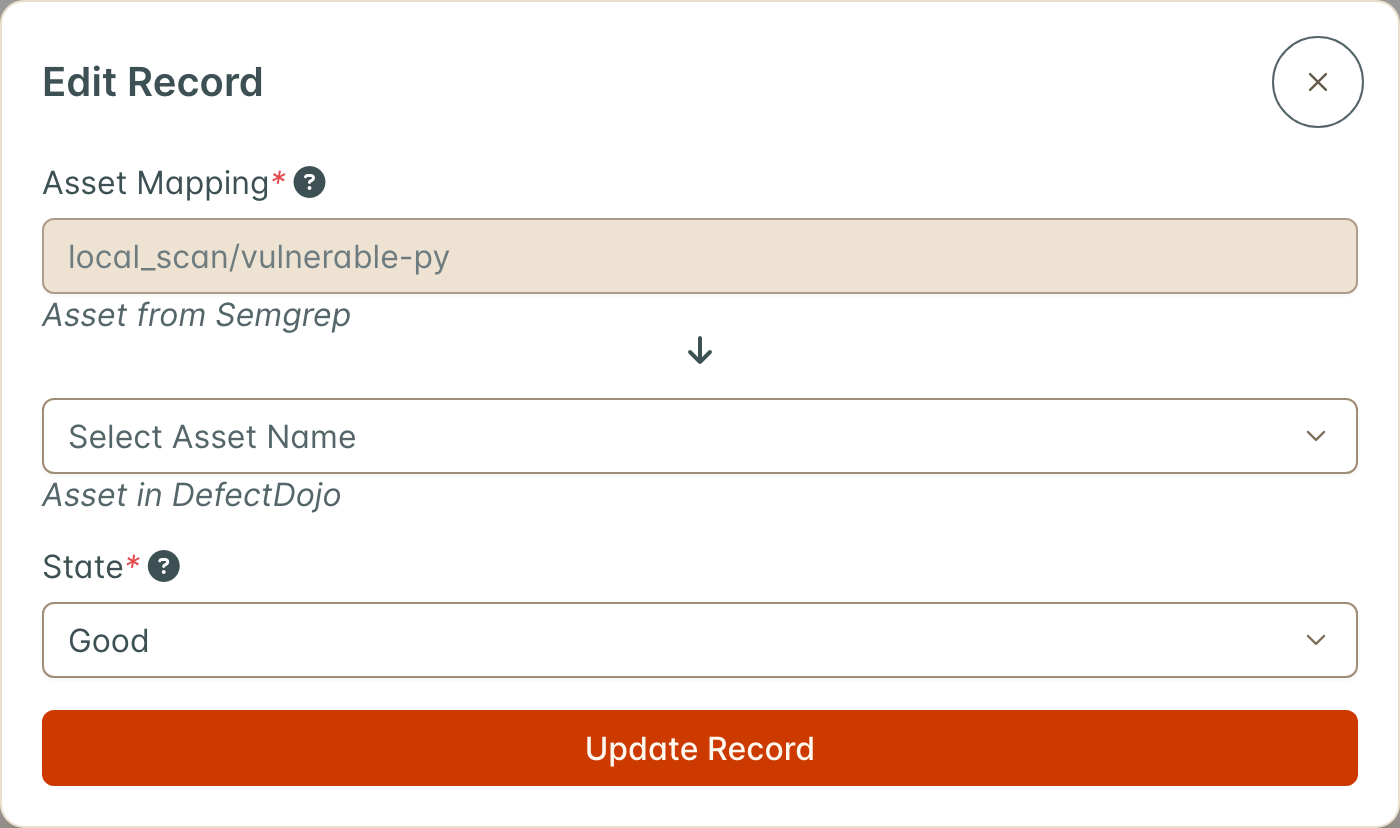
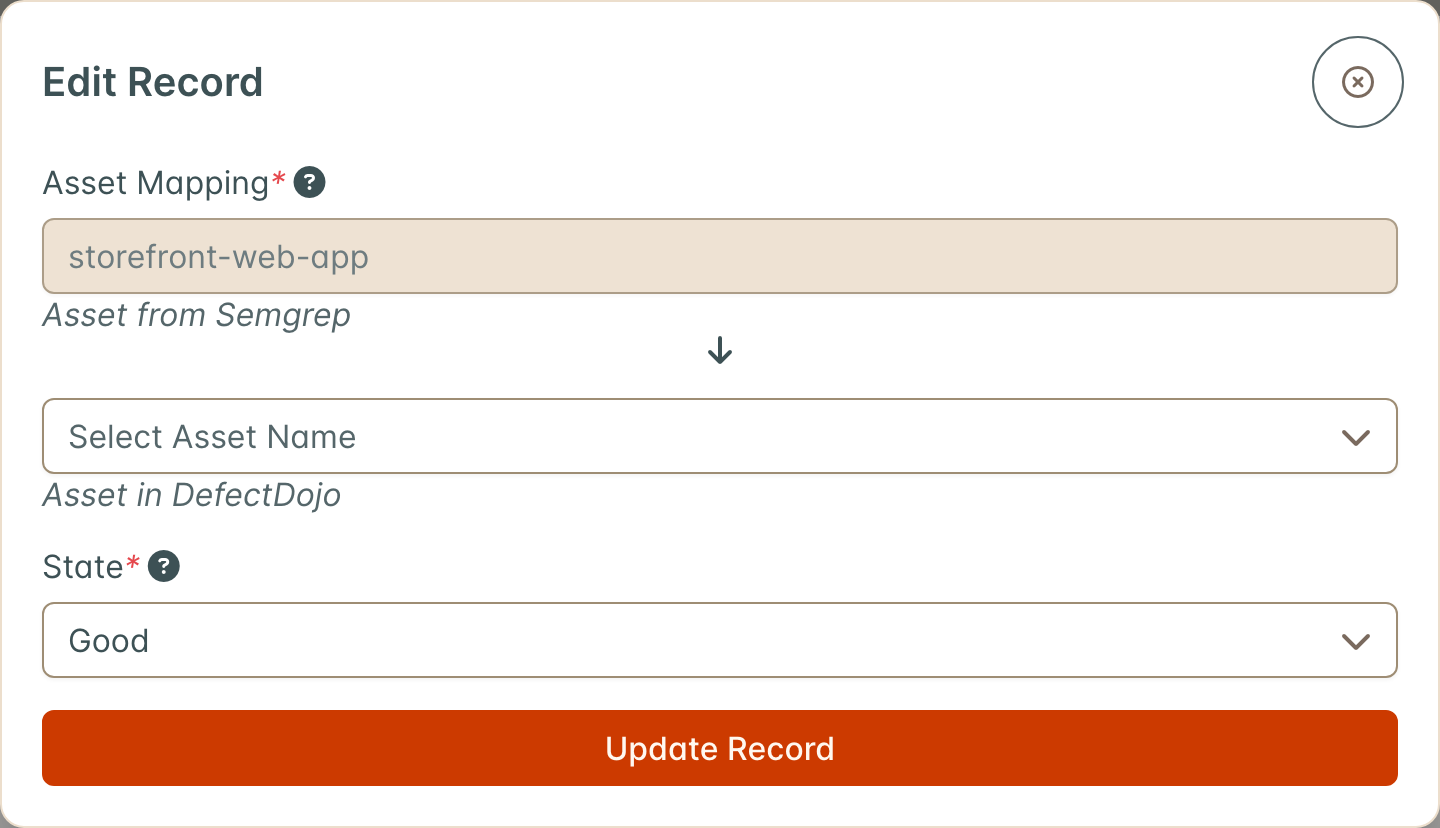
docs: fix the API sample code, do_not_reactivate, Location findings and records screenshots (#16639)
- API v2 Sample Code: query /api/v2/findings/ (readable with any token) instead of
  /api/v2/users/, print the results instead of the Response internals, show the
  paginated response shape and a filtered query, with placeholder host and token.
- do_not_reactivate: a reimport keeps a closed finding closed; new and open
  findings are processed as usual.
- Location page: its table lists open findings only; say how to reach every
  finding on a Location through the Total Findings count.
- Location Map: link it from the Locations overview, and state what a Reader can
  and cannot change.
- Recapture the upstream records screenshots with the row menu.

diff --git a/docs/content/automation/api/api-v2-docs.md b/docs/content/automation/api/api-v2-docs.md
@@ -116,81 +116,75 @@ Plan the change before making it: pick a window, ask token owners to rotate firs
 
 ## Sample Code
 
-Here are some simple python examples and their results produced against
-the `/users` endpoint:
+Here are two simple Python examples against the `/findings` endpoint. Any user with an API token can run them: the response holds only the findings that user has permission to view.
+
+The first lists findings and prints each one's id and title:
 
 {{< highlight python >}}
 import requests
 
-url = 'http://127.0.0.1:8000/api/v2/users'
-headers = {'content-type': 'application/json',
-            'Authorization': 'Token c8572a5adf107a693aa6c72584da31f4d1f1dcff'}
-r = requests.get(url, headers=headers, verify=True) # set verify to False if ssl cert is self-signed
+url = 'https://defectdojo.example.com/api/v2/findings/'
+headers = {
+    'content-type': 'application/json',
+    'Authorization': 'Token <Your API Token>',
+}
+r = requests.get(url, headers=headers, verify=True)  # set verify to False if the SSL certificate is self-signed
+r.raise_for_status()
 
-for key, value in r.__dict__.items():
-  print(f"'{key}': '{value}'")
-  print('------------------')
+for finding in r.json()['results']:
+    print(finding['id'], finding['title'])
 {{< /highlight >}}
 
-This code will return the list of all the users defined in DefectDojo.
-The json object result looks like:
+The output is one line per finding:
+
+{{< highlight text >}}
+101 Example SQL Injection
+102 Example Cross-Site Scripting
+{{< /highlight >}}
+
+The second filters the list to active findings of High severity, using query parameters. Severity values are case-sensitive: use `Critical`, `High`, `Medium`, `Low` or `Info`.
+
+{{< highlight python >}}
+import requests
+
+url = 'https://defectdojo.example.com/api/v2/findings/'
+headers = {
+    'content-type': 'application/json',
+    'Authorization': 'Token <Your API Token>',
+}
+params = {'severity': 'High', 'active': 'true'}
+r = requests.get(url, headers=headers, params=params, verify=True)  # set verify to False if the SSL certificate is self-signed
+r.raise_for_status()
+
+print(r.json())
+{{< /highlight >}}
+
+List endpoints are paginated. The response holds the total `count`, the URLs of the `next` and `previous` pages (`null` when there are none), and the current page of findings in `results`. `prefetch` stays empty unless you ask for related objects with the `prefetch` parameter. Each finding carries every field of the Finding model; the example below is trimmed to a few of them:
 
 {{< highlight json >}}
-    [
+{
+    "count": 2,
+    "next": null,
+    "previous": null,
+    "prefetch": {},
+    "results": [
         {
-          "first_name": "Tyagi",
-          "id": 22,
-          "last_login": "2019-06-18T08:05:51.925743",
-          "last_name": "Paz",
-          "username": "dev7958"
+            "id": 101,
+            "title": "Example SQL Injection",
+            "severity": "High",
+            "active": true
         },
         {
-          "first_name": "saurabh",
-          "id": 31,
-          "last_login": "2019-06-06T11:44:32.533035",
-          "last_name": "",
-          "username": "saurabh.paz"
+            "id": 103,
+            "title": "Example Server-Side Request Forgery",
+            "severity": "High",
+            "active": true
         }
     ]
+}
 {{< /highlight >}}
 
-Here is another example against the `/users` endpoint, this
-time we will filter the results to include only the users whose user
-name includes `jay`:
-
-{{< highlight python >}}
-import requests
-
-url = 'http://127.0.0.1:8000/api/v2/users/?username__contains=jay'
-headers = {'content-type': 'application/json',
-            'Authorization': 'Token c8572a5adf107a693aa6c72584da31f4d1f1dcff'}
-r = requests.get(url, headers=headers, verify=True) # set verify to False if ssl cert is self-signed
-
-for key, value in r.__dict__.items():
-  print(f"'{key}': '{value}'")
-  print('------------------')
-{{< /highlight >}}
-
-The json object result is:
-
-{{< highlight json >}}
-[
-    {
-        "first_name": "Jay",
-        "id": 22,
-        "last_login": "2015-10-28T08:05:51.925743",
-        "last_name": "Paz",
-        "username": "jay7958"
-    },
-    {
-        "first_name": "",
-        "id": 31,
-        "last_login": "2015-10-13T11:44:32.533035",
-        "last_name": "",
-        "username": "jay.paz"
-    }
-]
-{{< /highlight >}}
+A page holds 25 results by default. Set `limit` to change the page size and `offset` to start further in, or follow the `next` URL until it is `null` to read every page.
 
 See [Django Rest Framework\'s documentation on interacting with an
 API](https://www.django-rest-framework.org/) for
@@ -313,7 +307,7 @@ A reimport can be performed by specifying the names of these entities in the API
 
 When `auto_create_context` is `True`, the Organization, Asset and Engagement will be created if they do not already exist. Make sure your user has sufficient [permissions](/admin/user_management/about_perms_and_roles/) to create an Asset/Organization.
 
-When `do_not_reactivate` is `True`, the importing/reimporting will ignore uploaded active findings and not reactivate previously closed findings, while still creating new findings if there are new ones. You will get a note on the finding to explain that it was not reactivated for that reason.
+When `do_not_reactivate` is `True`, a reimport keeps a closed finding closed when it appears in the report again, instead of reactivating it, and adds a note to that finding saying it was not reactivated. New findings in the report are still created, and findings that are already open are processed as usual. A first import has no existing findings to reactivate, so the option only changes a reimport.
 
 A reimport will automatically select the latest test inside the provided engagement that satisfies the provided `scan_type` and (optionally) provided `test_title`.
 

diff --git a/docs/content/asset_modelling/locations/PRO__working_with_urls.md b/docs/content/asset_modelling/locations/PRO__working_with_urls.md
@@ -22,12 +22,12 @@ When you create or upload a URL, DefectDojo parses it into the structured fields
 
 When the Locations feature is enabled, the navigation exposes:
 
-- **Act > Explore > Attack Surface > Locations** — A list of every Location across both URL and Dependency subtypes. Filter by type, status, Asset, Finding, or tag.
-- **Act > Explore > Attack Surface > URLs** — A scoped list of URL Locations only. This is the closest analogue to the old Endpoints page.
+- **Act > Explore > Attack Surface > Locations**: A list of every Location across both URL and Dependency subtypes. Filter by type, status, Asset, Finding, or tag.
+- **Act > Explore > Attack Surface > URLs**: A scoped list of URL Locations only. This is the closest analogue to the old Endpoints page.
 - **New URL** on the URLs list — A form to create a single URL with structured fields, tags, and optional Asset/Finding associations.
-- **Locations on an Asset** — From any Asset, the **Locations** tab shows the URLs and Dependencies attached to that Asset, with status counts and quick actions.
-- **The Location page** — Click a Location's value in any list, or choose **View Location** from its row menu, to open the page for that Location. It is the counterpart of the old Endpoint page: the Location's type, value, tags and overall status; when it was first and last seen; each Asset that references it, in a table you can search, sort and filter by Asset, status, relationship, and first or last seen date; its **Custom Fields**; and every Finding found there.
-- **Custom Fields on a Location** — The name and value pairs the Endpoint page called metadata appear in the same **Custom Fields** card the Endpoint page uses. A Location is shared by every Asset that recorded the same value, so a field can belong to one Asset. The card shows the Asset under each value, adds the Asset to a tab's name when two Assets use the same field name, and only shows fields for Assets you can view. Add a field with the **+** on the card or **Add Custom Field** in the Location's menu, and choose the Asset it belongs to, or none. Edit or delete a field from its gear menu. Changing a field needs edit permission on the Location, and on its Asset when the field belongs to one.
+- **Locations on an Asset**: From any Asset, the **Locations** tab shows the URLs and Dependencies attached to that Asset, with status counts and quick actions.
+- **The Location page**: Click a Location's value in any list, or choose **View Location** from its row menu, to open the page for that Location. It is the counterpart of the old Endpoint page: the Location's type, value, tags and overall status; when it was first and last seen; each Asset that references it, in a table you can search, sort and filter by Asset, status, relationship, and first or last seen date; its **Custom Fields**; and **Affected Open Findings**, the active Findings recorded there. That table always filters on Status Active. To see every Finding on a Location, whatever its status, open a list of Locations (an Asset's Locations table, **Choose Locations** on the [Location Map](../pro__location_map), or **All Locations**) and click the location's count in the **Total Findings** column: it opens the Findings list filtered to that Location. **Mitigated Findings** does the same for the Findings recorded there as Mitigated, False Positive, Risk Accepted or Out of Scope.
+- **Custom Fields on a Location**: The name and value pairs the Endpoint page called metadata appear in the same **Custom Fields** card the Endpoint page uses. A Location is shared by every Asset that recorded the same value, so a field can belong to one Asset. The card shows the Asset under each value, adds the Asset to a tab's name when two Assets use the same field name, and only shows fields for Assets you can view. Add a field with the **+** on the card or **Add Custom Field** in the Location's menu, and choose the Asset it belongs to, or none. Edit or delete a field from its gear menu. Changing a field needs edit permission on the Location, and on its Asset when the field belongs to one.
 
 ![image](images/PRO_Location_Page.png)
 

diff --git a/docs/content/asset_modelling/locations/PRO__location_map.md b/docs/content/asset_modelling/locations/PRO__location_map.md
@@ -58,15 +58,15 @@ The page has three panels: actions on the left, the canvas in the middle, and de
 Click a node to select it. The right panel then shows:
 
 - **Type** and **Value** of the node.
-- For a single location: **Status Here** and its **Relationship** to the Asset. Users who can edit Locations on the Asset can change the relationship with **Set a Relationship** and **Save**, or remove it with **Clear**.
+- For a single location: **Status Here** and its **Relationship** to the Asset. Users who can edit Locations on the Asset can change the relationship: pick one under **Set a Relationship** and click **Save**. Picking **Clear** and saving removes it. A Reader sees the relationship but cannot change it.
 - For a group: how many **Locations** and **Children** it has.
-- **Findings**: active findings by severity, split into **Direct** (on this node) and **Beneath** (on nodes under it), with a **Total**.
+- **Findings**: active findings by severity, split into **Direct** (on this node) and **Beneath** (on nodes under it), with a **Total**. A group also shows how many **Locations Beneath** it.
 
 With no node selected, the right panel shows a short **Map Overview**. Click the empty canvas or use **Clear the selection** to deselect.
 
 When a single location is selected, the left panel offers two actions:
 
-- **View Findings** opens the active findings recorded on that location.
+- **View Findings** opens the active findings recorded on that location. To see all of its findings, whatever their status, use the **Total Findings** count in the location list (see [Narrowing the Map with the List](#narrowing-the-map-with-the-list)).
 - **Copy Value** copies the full location value to the clipboard.
 
 A group is drawn from several locations, so these actions apply only to a single location.
@@ -88,7 +88,7 @@ Under **Canvas**, **Type Boundaries** turns the dashed regions on or off. The **
 
 ### Adding Locations
 
-**New Location** and **Add Existing** work as they do on the table page, and the map redraws to include what you added. See [Working with URLs](/asset_modelling/locations/pro__working_with_urls/) for the permissions each one needs.
+**New Location** and **Add Existing** work as they do on the table page, and the map redraws to include what you added. They appear only for users who can add or edit Locations on the Asset, so a Reader does not see them. See [Working with URLs](/asset_modelling/locations/pro__working_with_urls/) for the permissions each one needs.
 
 ## Turning the Map Off
 

diff --git a/docs/content/asset_modelling/locations/PRO__locations_overview.md b/docs/content/asset_modelling/locations/PRO__locations_overview.md
@@ -91,7 +91,8 @@ Existing parsers have been updated to emit Location data when the feature flag i
 
 ## Where to Go Next
 
-- **Enable the feature** — turn Locations on yourself from the [Feature Flags page](/admin/feature_flags/pro__feature_flags/); no Support request is required.
-- **Migrate from Endpoints** — see [Migrating from Endpoints](../pro__migrating_from_endpoints) for what the migration preserves, and how the legacy Endpoint API behaves afterward.
-- **Day-to-day URL workflows** — see [Working with URLs](../pro__working_with_urls).
-- **SBOMs and dependencies** — see [Working with SBOMs](../pro__working_with_sboms).
+- **Enable the feature**: turn Locations on yourself from the [Feature Flags page](/admin/feature_flags/pro__feature_flags/); no Support request is required.
+- **Migrate from Endpoints**: see [Migrating from Endpoints](../pro__migrating_from_endpoints) for what the migration preserves, and how the legacy Endpoint API behaves afterward.
+- **Day-to-day URL workflows**: see [Working with URLs](../pro__working_with_urls).
+- **See an Asset's Locations on a map**: see [Location Map](../pro__location_map).
+- **SBOMs and dependencies**: see [Working with SBOMs](../pro__working_with_sboms).
